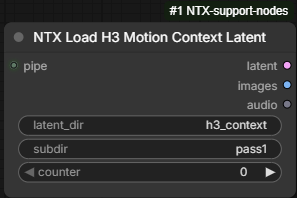
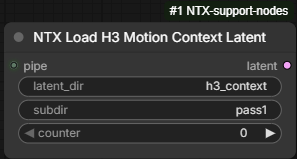
Removed images/audio outputs from Load H3 Motion Context Latent

diff --git a/py/media_h3_script.py b/py/media_h3_script.py
@@ -252,9 +252,6 @@ class LoadH3MotionContextLatent(io.ComfyNode):
     folder, clip_index = the previous clip). The first clip continues nothing, and a missing file
     is not an error : the output is then None. The counter widget is not used : changing it only
     forces the node to run again.
-
-    The images and audio outputs are None, except for the first clip (clip_index <= 1) : they then
-    carry the chain_video and chain_audio entries of the pipe (None when the pipe has none).
     """
 
     @classmethod
@@ -264,8 +261,7 @@ class LoadH3MotionContextLatent(io.ComfyNode):
             display_name=f"{ADDON_PREFIX} Load H3 Motion Context Latent",
             description="Load the motion context latent of the clip before the pipe's clip_index (saved by H3 Motion Context "
                         "Save Latent in <output>/<latent_dir>/<project>/<subdir>/clip_NNNNN.safetensors), through the H3 "
-                        "Motion Context Load Latent node. None for the first clip, or when the file does not exist. For the "
-                        "first clip, images and audio carry the chain_video and chain_audio of the pipe.",
+                        "Motion Context Load Latent node. None for the first clip, or when the file does not exist.",
             category=f"{ADDON_CATEGORY}/images",
             inputs=[
                 DICT_TYPE.Input("pipe", tooltip="A pipe holding clip_index, the clip being generated (from a Media H3 Script)."),
@@ -280,8 +276,6 @@ class LoadH3MotionContextLatent(io.ComfyNode):
             outputs=[
                 io.Latent.Output("latent", tooltip="The latent of the previous clip, for the context_latent input of "
                                                    "H3 Motion Context ; None when there is none."),
-                io.Image.Output("images", tooltip="For the first clip, the chain_video of the pipe ; None otherwise."),
-                io.Audio.Output("audio", tooltip="For the first clip, the chain_audio of the pipe ; None otherwise."),
             ],
         )
 
@@ -291,22 +285,19 @@ class LoadH3MotionContextLatent(io.ComfyNode):
         pipe = pipe if isinstance(pipe, dict) else {}
         clip_index = pipe_clip_index(pipe)
         if clip_index <= 1:
-            # the first clip : the chain's video and audio pass through instead
-            images, audio = pipe.get("chain_video"), pipe.get("chain_audio")
-            logger.info(f"clip {clip_index} : no previous clip, no latent ; chain_video {'passed' if images is not None else 'not in the pipe'}, "
-                        f"chain_audio {'passed' if audio is not None else 'not in the pipe'}")
-            return io.NodeOutput(None, images, audio)
+            logger.info(f"clip {clip_index} : no previous clip, no latent")
+            return io.NodeOutput(None)
 
         previous = clip_index - 1
         latent_dir = h3_latent_dir(latent_dir, pipe, subdir)
         path = h3_latent_path(latent_dir, previous)
         if not os.path.isfile(path):
             logger.warning(f"clip {clip_index} : no latent of clip {previous} ({path}), no latent")
-            return io.NodeOutput(None, None, None)
+            return io.NodeOutput(None)
 
         latent = run_h3_node("LoadH3MotionContextLatent", H3_LOAD_LATENT_NODE, latent_path=latent_dir, clip_index=previous)[0]
         logger.info(f"clip {clip_index} : latent of clip {previous} loaded ({path})")
-        return io.NodeOutput(latent, None, None)
+        return io.NodeOutput(latent)
 
 class SaveH3MotionContextLatent(io.ComfyNode):
     """Save the latent of the pipe's clip, for the next clip's LoadH3MotionContextLatent.

diff --git a/README.md b/README.md
@@ -2747,7 +2747,7 @@ the inputs that are connected, so an unconnected `stack2` is "not found".
 `start_video` is a setting of the whole script, not of a clip: the tag of a **video** slot of the
 MediaLoader that the first clip continues. On a run of the **first clip** (`clip_index` `1`), that
 video's frames and audio track — with the slot's edits applied, decoded as by the MediaParser —
-go into the pipe as `chain_video` and `chain_audio`, for **LoadH3MotionContextLatent** to pass on.
+go into the pipe as `chain_video` and `chain_audio`.
 The tag is matched ignoring case, like the `@tag` references. A tag no slot holds, a tag held by a
 picture or audio slot, or a video slot switched off **fails the prompt** (the error lists the
 video tags the loader holds). When `start_video` is empty, or on any later clip, it is ignored —
@@ -2884,9 +2884,8 @@ Motion Context Load Latent** node, with that folder as `latent_path` and `clip_i
 `clip_index`.
 
 - For the **first clip** (`clip_index` of `1` or less, or none in the pipe) there is nothing to
-  continue from: `latent` is `None`, and `images` / `audio` carry the pipe's `chain_video` and
-  `chain_audio` instead (each `None` when the pipe has no such key).
-- A **missing file** is not an error: all three outputs are `None`, and the console shows a
+  continue from: `latent` is `None`.
+- A **missing file** is not an error: `latent` is `None`, and the console shows a
   warning with the path that was looked for.
 
 ComfyUI reuses the node's previous result as long as its inputs are unchanged, and the pipe is
@@ -2897,7 +2896,7 @@ instance when it returned `None` because the previous clip's file was not saved 
 
 | Input | Type | Description |
 |---|---|---|
-| `pipe` | DICT | The pipe of a MediaH3Script, giving `clip_index`, `project`, and for the first clip `chain_video` / `chain_audio`. |
+| `pipe` | DICT | The pipe of a MediaH3Script, giving `clip_index` and `project`. |
 | `latent_dir` | STRING | The folder of the saved latents, relative to the ComfyUI output folder. Default `h3_context`. |
 | `subdir` | STRING | A subfolder of `<latent_dir>/<project>`. Default empty (skipped). |
 | `counter` | INT | Not used: change it to force the node to run again, regardless of the cache. Default `0`. |
@@ -2907,18 +2906,16 @@ instance when it returned `None` because the previous clip's file was not saved 
 | Output | Type | Description |
 |---|---|---|
 | `latent` | LATENT | The latent of the previous clip, for the `context_latent` input of H3 Motion Context only (it is not a decodable latent); `None` for the first clip or when the file is missing. |
-| `images` | IMAGE | For the first clip, the `chain_video` of the pipe; `None` otherwise. |
-| `audio` | AUDIO | For the first clip, the `chain_audio` of the pipe; `None` otherwise. |
 
 ### Example
 
 With `latent_dir` = `h3_context`, `subdir` = `pass1` and a pipe holding `project` = `city_run`:
 
-| Pipe `clip_index` | `latent` | `images` / `audio` |
-|---|---|---|
-| `1` | `None` | `chain_video` / `chain_audio` of the pipe |
-| `2` | `output/h3_context/city_run/pass1/clip_00001.safetensors` | `None` |
-| `3` | `output/h3_context/city_run/pass1/clip_00002.safetensors` | `None` |
+| Pipe `clip_index` | `latent` |
+|---|---|
+| `1` | `None` |
+| `2` | `output/h3_context/city_run/pass1/clip_00001.safetensors` |
+| `3` | `output/h3_context/city_run/pass1/clip_00002.safetensors` |
 
 ---
 
